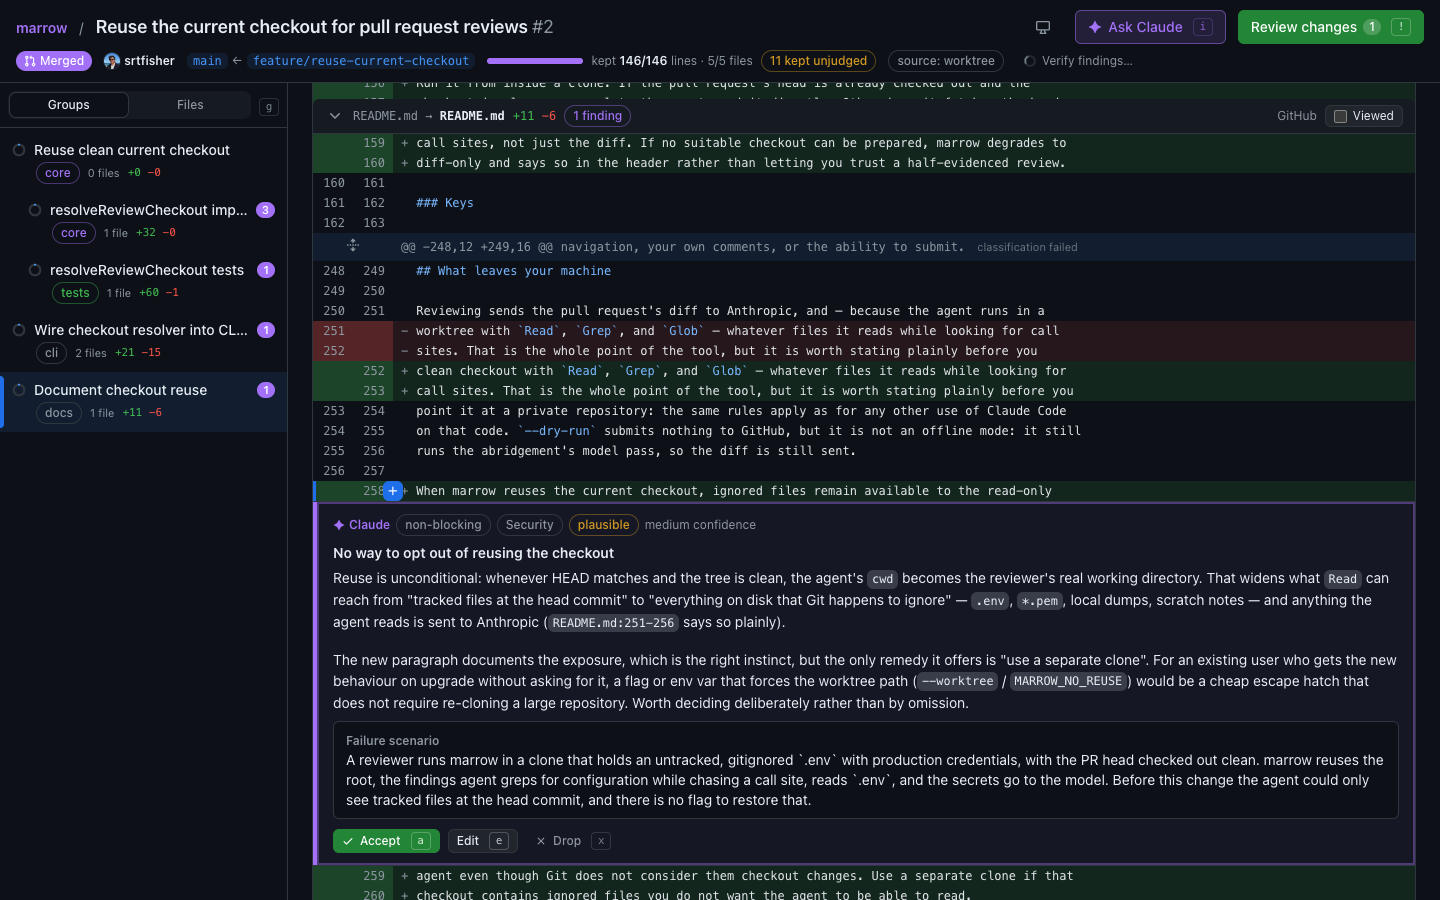
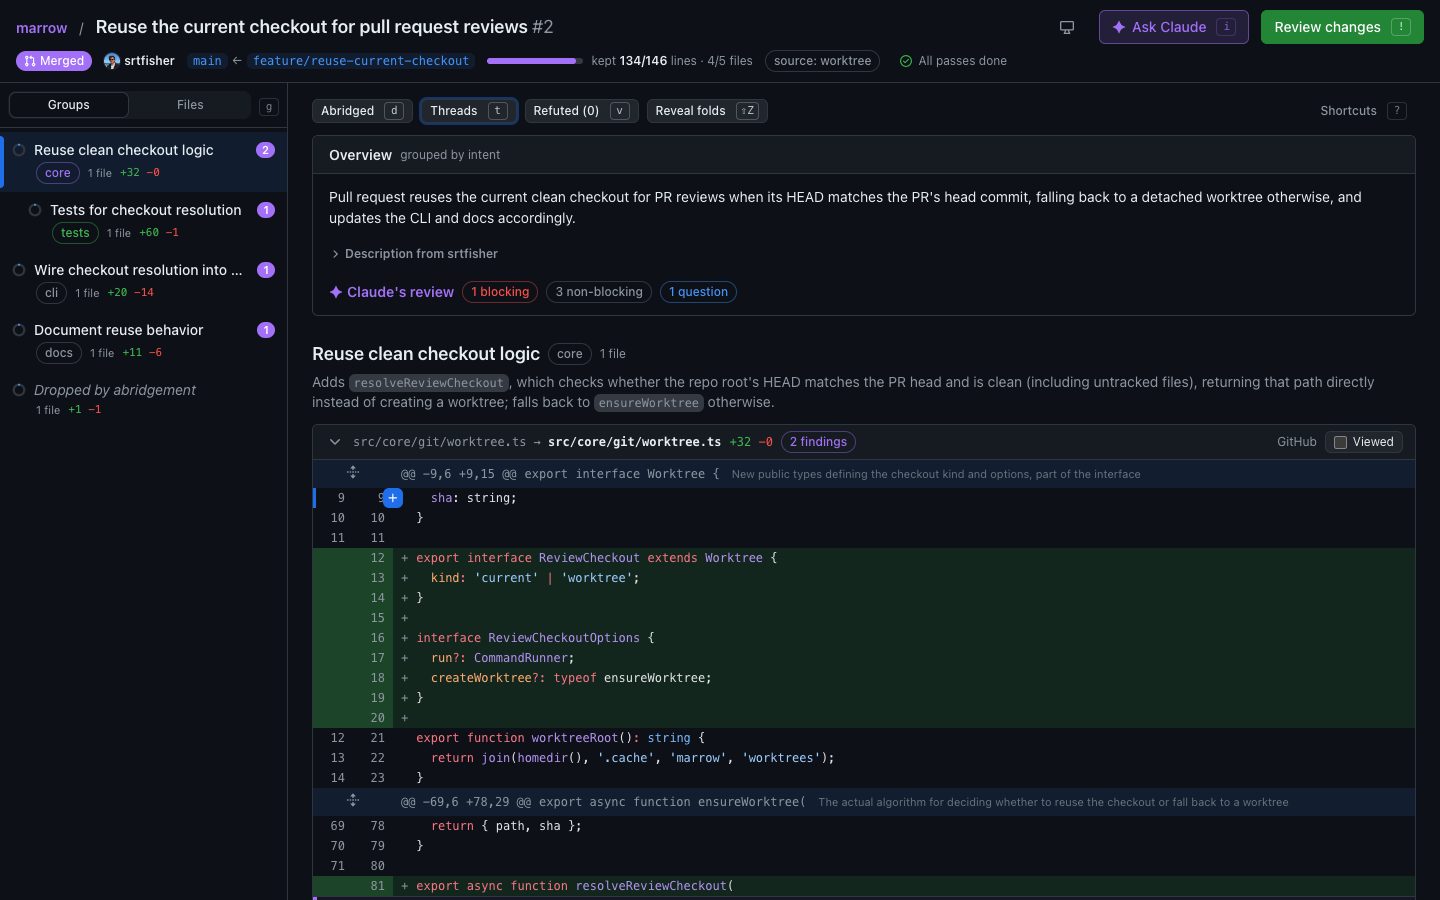
README: fresh screenshots of a finished review, and a quick start under the hero
Also stops Octokit logging the 404s marrow expects to the terminal.

diff --git a/src/cli.ts b/src/cli.ts
@@ -127,7 +127,13 @@ async function main(): Promise<number> {
   }
 
   const token = await resolveGitHubToken();
-  const octokit = new Octokit({ auth: token });
+  const octokit = new Octokit({
+    auth: token,
+    // Octokit logs every failed request, including the 404s marrow expects (a
+    // repository with no .gitattributes). Failures still reach the caller and
+    // the page; the log only scribbled over the terminal.
+    log: { debug: () => {}, info: () => {}, warn: () => {}, error: () => {} },
+  });
   const client = new GitHubClient(token, octokit as never);
   const viewer = (await octokit.rest.users.getAuthenticated()).data.login;
 

diff --git a/README.md b/README.md
@@ -11,7 +11,11 @@ parts worth reading, groups what is left by what it is for, drafts findings anch
 specific lines, lets you accept, rewrite, or throw each one away, and submits a single
 GitHub review with inline comments and suggestions.
 
-<img width="1440" height="900" alt="marrow reviewing a pull request: groups in the sidebar, a GitHub-styled diff, and one of Claude's findings inline" src="docs/screenshots/review.png" />
+<img width="1440" height="900" alt="marrow reviewing a pull request: changes grouped by intent in the sidebar, an overview with Claude's summary and finding counts, and a syntax-highlighted GitHub-style diff" src="docs/screenshots/review.png" />
+
+```bash
+npx marrow-review 42      # inside a clone: review PR 42 in your browser
+```
 
 ---
 
@@ -84,15 +88,21 @@ The page is GitHub's files view with two additions: a sidebar of groups, and Cla
 
 - **Read.** `j`/`k` move a line cursor; `]`/`[` jump files, `}`/`{` groups. Folded hunks
   name their rule; `z` reveals them, `d` switches to the full diff. Each file has a
-  **Viewed** checkbox that notices if the file changes after you viewed it.
-- **Comment.** Click a line number, or drag or shift-click across the gutter to select a
-  block, then `c` (or the `+` beside the line). The composer previews with GitHub's own
-  renderer, autocompletes `:emoji:` and `@mentions`, and **Suggest change** inserts a
-  suggestion block prefilled with the selected lines.
+  **Viewed** checkbox (`w`) that folds it away and notices if it changes after you viewed it.
 - **Triage Claude.** Findings appear in purple under their line — purple is only ever the
   model — each marked `blocking` or `non-blocking`, with a type and, for bugs, the concrete
   failure it would cause. `a` accepts, `e` rewrites, `s` posts it as a suggestion, `x`
   drops it, `n`/`p` move between them.
+
+  <img width="1440" height="900" alt="A blocking Correctness finding, confirmed by verification, with its failure scenario and Accept, Edit, and Drop buttons showing their keys" src="docs/screenshots/finding.png" />
+
+- **Comment.** Click a line number, or drag or shift-click across the gutter to select a
+  block, then `c` (or the `+` beside the line). The composer previews with GitHub's own
+  renderer, autocompletes `:emoji:` and `@mentions`, and **Suggest change** (`⌘G`) inserts
+  a suggestion block prefilled with the selected lines.
+
+  <img width="1440" height="900" alt="A comment on lines 99 to 101, previewed with GitHub's renderer: an emoji and a suggested change" src="docs/screenshots/comment.png" />
+
 - **Ask.** `i` opens a panel to ask Claude about the code under the cursor.
 - **Submit.** `!` opens the finish dialog: summary, verdict, and what will post.
 
